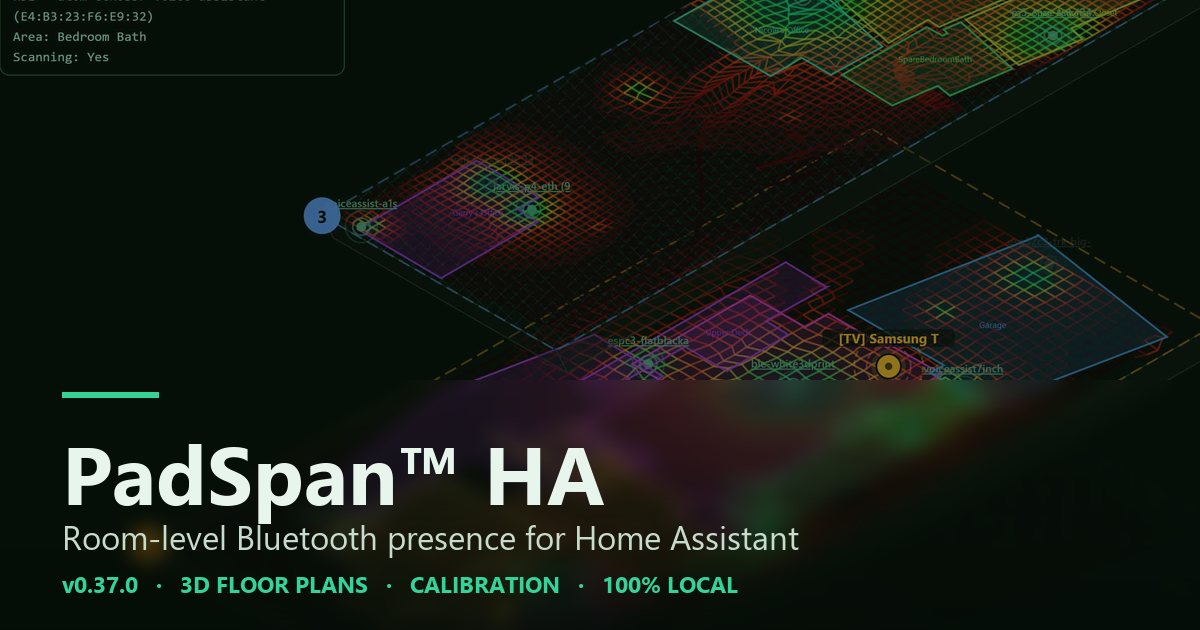
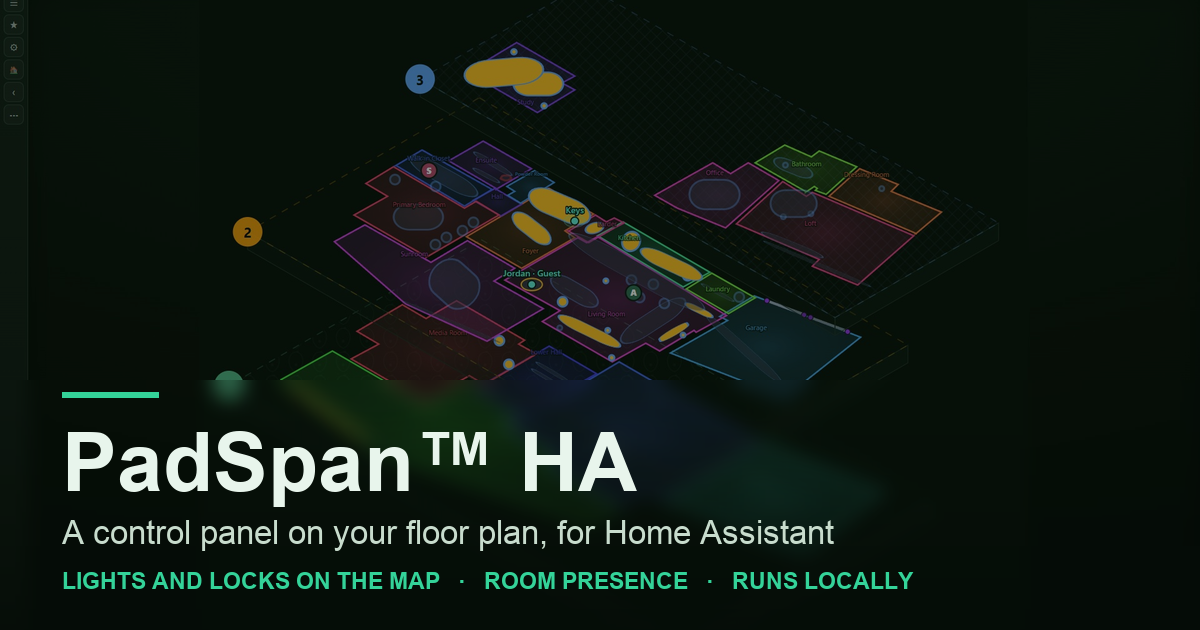
Pictures: the sample house instead of a real one with a family name on a room label
Garry's pick. The home page's hero is the demo's wall Atlas; the share picture
is rebuilt from it with control-panel words; the large-homes and wall-screens
guides (EN + DE) share the same picture, and large-homes shows the free
Overview of the sample house. make_social_preview.py finds Arial on a Mac.

diff --git a/site/guides/large-homes/de/index.html b/site/guides/large-homes/de/index.html
@@ -15,7 +15,7 @@
 <meta property="og:title" content="Wo sind alle? Das ganze Haus live an einer Wand">
 <meta property="og:description" content="Jede Etage, jeder Raum und alle, die darin sind, live auf einem Touchscreen an der Wand. Lokal, privat, und eine Lizenz kann bis zu fünf Häuser abdecken.">
 <meta property="og:url" content="https://padspan.traks.ca/guides/large-homes/de/">
-<meta property="og:image" content="https://padspan.traks.ca/images/overview-3d-multifloor.jpg">
+<meta property="og:image" content="https://padspan.traks.ca/demo/media/estate-wall-atlas.jpg">
 <meta name="twitter:card" content="summary_large_image">
 <link rel="icon" type="image/png" href="/images/icon.png">
 <style>
@@ -96,8 +96,8 @@ footer p{margin:4px 0}
 <p>Der <a href="https://github.com/gbroeckling/padspanHA/blob/v0.38.166/docs/WALL_SCREEN_GUIDE.md">Wall Screen Guide</a> (englisch) hat jede Einstellung, und <a href="/guides/wall-screens/de/">Welcher Touchscreen für ein PadSpan-Wanddisplay?</a> geht auf die Bildschirme selbst ein.</p>
 
 <figure>
-  <img src="/images/overview-3d-multifloor.jpg" width="2422" height="1372" alt="Mehrere Etagen eines Hauses übereinander in PadSpans kostenloser 3D-Karte, mit Geräten in ihren Räumen" loading="lazy">
-  <figcaption>Übereinandergestapelte Etagen in der 3D-Karte der kostenlosen Übersicht.</figcaption>
+  <img src="/demo/media/setup-overview-rooms.jpg" width="1400" height="1242" alt="Die drei Etagen eines Beispielhauses übereinander in PadSpans kostenloser Übersicht, jeder Raum in seiner eigenen Farbe umrandet" loading="lazy">
+  <figcaption>Die kostenlose Übersicht: die drei Etagen eines Beispielhauses, übereinander.</figcaption>
 </figure>
 
 <h2>Scanner für ein großes Haus</h2>

diff --git a/site/guides/large-homes/index.html b/site/guides/large-homes/index.html
@@ -14,7 +14,7 @@
 <meta property="og:title" content="Where is everyone? The whole house, live, on one wall">
 <meta property="og:description" content="Every floor, every room and everyone in it, live on one touch screen on the wall. Local, private, and one licence can cover up to five homes.">
 <meta property="og:url" content="https://padspan.traks.ca/guides/large-homes/">
-<meta property="og:image" content="https://padspan.traks.ca/images/overview-3d-multifloor.jpg">
+<meta property="og:image" content="https://padspan.traks.ca/demo/media/estate-wall-atlas.jpg">
 <meta name="twitter:card" content="summary_large_image">
 <link rel="icon" type="image/png" href="/images/icon.png">
 <style>
@@ -95,8 +95,8 @@ footer p{margin:4px 0}
 <p>The <a href="https://github.com/gbroeckling/padspanHA/blob/v0.38.166/docs/WALL_SCREEN_GUIDE.md">Wall Screen Guide</a> has every setting, and <a href="/guides/wall-screens/">Which touch screen for a PadSpan wall?</a> covers the screens themselves.</p>
 
 <figure>
-  <img src="/images/overview-3d-multifloor.jpg" width="2422" height="1372" alt="Several floors of a house stacked in PadSpan's free 3D map, with devices in their rooms" loading="lazy">
-  <figcaption>Floors stacked in the free Overview's 3D map.</figcaption>
+  <img src="/demo/media/setup-overview-rooms.jpg" width="1400" height="1242" alt="A sample house's three floors stacked one above the other on PadSpan's free Overview, each room outlined in its own colour" loading="lazy">
+  <figcaption>The free Overview: a sample house's three floors, stacked.</figcaption>
 </figure>
 
 <h2>Scanners for a big house</h2>

diff --git a/site/guides/wall-screens/de/index.html b/site/guides/wall-screens/de/index.html
@@ -15,7 +15,7 @@
 <meta property="og:title" content="Welcher Touchscreen für ein PadSpan-Wanddisplay?">
 <meta property="og:description" content="Touch-Monitore, Android-All-in-Ones und Touch-Rahmen für Fernseher ab 37 Zoll, und wie du PadSpans Wanddisplay darauf einrichtest.">
 <meta property="og:url" content="https://padspan.traks.ca/guides/wall-screens/de/">
-<meta property="og:image" content="https://padspan.traks.ca/images/overview-3d-multifloor.jpg">
+<meta property="og:image" content="https://padspan.traks.ca/demo/media/estate-wall-atlas.jpg">
 <meta name="twitter:card" content="summary_large_image">
 <link rel="icon" type="image/png" href="/images/icon.png">
 <style>

diff --git a/site/guides/wall-screens/index.html b/site/guides/wall-screens/index.html
@@ -14,7 +14,7 @@
 <meta property="og:title" content="Which touch screen for a PadSpan wall?">
 <meta property="og:description" content="Touch monitors, Android all-in-ones and TV touch frames from 37 inches up, and how to set PadSpan's wall up on them.">
 <meta property="og:url" content="https://padspan.traks.ca/guides/wall-screens/">
-<meta property="og:image" content="https://padspan.traks.ca/images/overview-3d-multifloor.jpg">
+<meta property="og:image" content="https://padspan.traks.ca/demo/media/estate-wall-atlas.jpg">
 <meta name="twitter:card" content="summary_large_image">
 <link rel="icon" type="image/png" href="/images/icon.png">
 <style>

diff --git a/site/index.html b/site/index.html
@@ -170,7 +170,7 @@ footer .links{display:flex;gap:22px;justify-content:center;flex-wrap:wrap;margin
 </header>
 
 <div class="wrap">
-  <img class="heroimg" src="images/overview-3d-multifloor.jpg" width="2422" height="1372" alt="3D multi-floor tracking with live RSSI heatmap overlay">
+  <img class="heroimg" src="/demo/media/estate-wall-atlas.jpg" width="1920" height="1080" alt="A sample house's Atlas on a wall screen: three floors, each light where it hangs, and who is in which room">
 </div>
 
 <div class="divider"></div>

diff --git a/scripts/make_social_preview.py b/scripts/make_social_preview.py
@@ -29,7 +29,7 @@ from PIL import Image, ImageDraw, ImageFilter, ImageFont
 
 ROOT = pathlib.Path(__file__).resolve().parents[1]
 MANIFEST = ROOT / "custom_components" / "padspan_ha" / "manifest.json"
-SOURCE = ROOT / "images" / "overview-3d-multifloor.jpg"
+SOURCE = ROOT / "tools" / "demo" / "media" / "estate-wall-atlas.jpg"   # the demo's sample house: no real names
 OUT = ROOT / "images" / "social-preview.png"
 
 W, H = 1200, 630
@@ -37,9 +37,10 @@ ACC = (52, 211, 153)      # --acc, the site's green
 INK = (232, 245, 236)     # --fg
 MUT = (147, 169, 155)     # --mut
 
-_FONT_DIRS = [pathlib.Path(r"C:\Windows\Fonts"), pathlib.Path("/usr/share/fonts")]
-_BOLD = ["segoeuib.ttf", "arialbd.ttf", "DejaVuSans-Bold.ttf"]
-_REG = ["segoeui.ttf", "arial.ttf", "DejaVuSans.ttf"]
+_FONT_DIRS = [pathlib.Path(r"C:\Windows\Fonts"), pathlib.Path("/System/Library/Fonts/Supplemental"),
+              pathlib.Path("/usr/share/fonts")]
+_BOLD = ["segoeuib.ttf", "arialbd.ttf", "Arial Bold.ttf", "DejaVuSans-Bold.ttf"]
+_REG = ["segoeui.ttf", "arial.ttf", "Arial.ttf", "DejaVuSans.ttf"]
 
 
 def font(names: list[str], size: int) -> ImageFont.FreeTypeFont:
@@ -92,10 +93,10 @@ def build(version: str) -> Image.Image:
     f_meta = font(_BOLD, 23)
 
     d.text((x, H - 214), "PadSpan™ HA", font=f_title, fill=INK)
-    d.text((x, H - 116), "Room-level Bluetooth presence for Home Assistant",
+    d.text((x, H - 116), "A control panel on your floor plan, for Home Assistant",
            font=f_sub, fill=(200, 220, 205))
 
-    meta = f"v{version}   ·   3D FLOOR PLANS   ·   CALIBRATION   ·   LOCAL TRACKING"
+    meta = "LIGHTS AND LOCKS ON THE MAP   ·   ROOM PRESENCE   ·   RUNS LOCALLY"
     d.text((x, H - 62), meta, font=f_meta, fill=ACC)
 
     # A thin accent rule anchors the block to the site's visual language.
